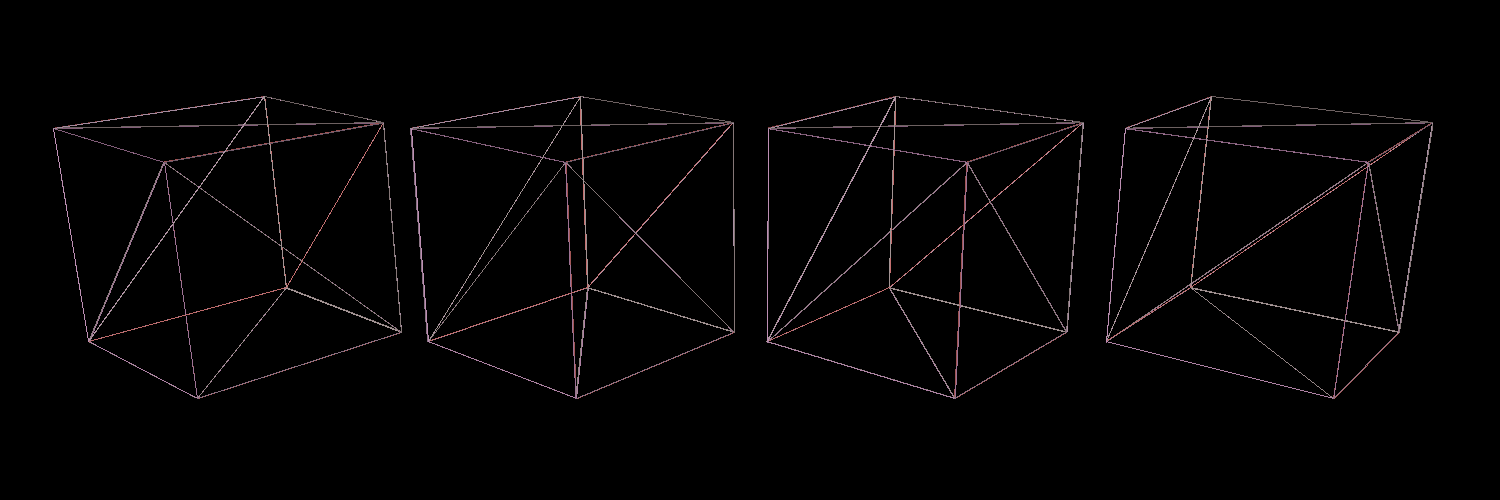
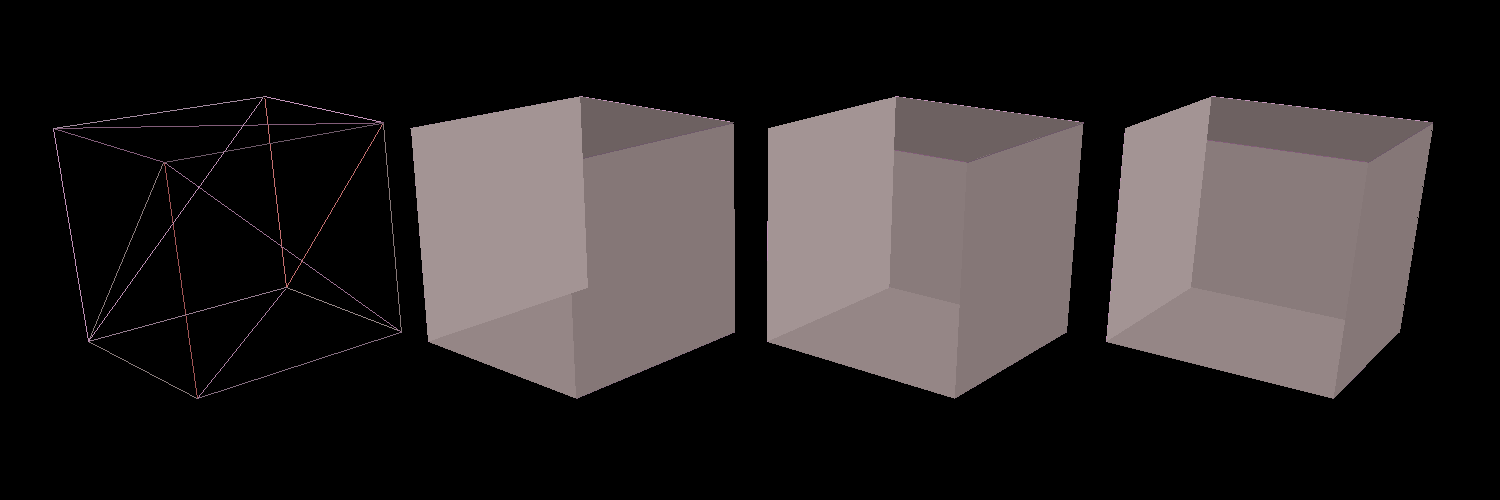
finished part 3, next debug for testing

diff --git a/src/rasterizer/pipeline.cpp b/src/rasterizer/pipeline.cpp
@@ -463,8 +463,6 @@ void Pipeline< p, P, flags >::rasterize_line(
 		}
 	}
 
-
-
 	// { //As a placeholder, draw a point in the middle of the line:
 	// 	//(remove this code once you have a real implementation)
 	// 	Fragment mid;
@@ -497,7 +495,8 @@ void Pipeline< p, P, flags >::rasterize_line(
  *    derivatives[i].y = d/d(fb_position.y) attributes[i]
  *  You may compute these derivatives analytically or numerically.
  *
- *  See section 8.12.1 "Derivative Functions" of the GLSL 4.20 specification for some inspiration. (*HOWEVER*, the spec is solving a harder problem, and also nothing in the spec is binding on your implementation)
+ *  See section 8.12.1 "Derivative Functions" of the GLSL 4.20 specification for some inspiration. 
+ *  (*HOWEVER*, the spec is solving a harder problem, and also nothing in the spec is binding on your implementation)
  *
  *  One approach is to rasterize blocks of four fragments and use forward and backward differences to compute derivatives.
  *  To assist you in this approach, keep in mind that the framebuffer size is *guaranteed* to be even. (see framebuffer.h)
@@ -533,6 +532,39 @@ void Pipeline< p, P, flags >::rasterize_triangle(
 		Pipeline< PrimitiveType::Lines, P, flags >::rasterize_line(va, vb, emit_fragment);
 		Pipeline< PrimitiveType::Lines, P, flags >::rasterize_line(vb, vc, emit_fragment);
 		Pipeline< PrimitiveType::Lines, P, flags >::rasterize_line(vc, va, emit_fragment);
+
+		// Get the bounding box of the triangle
+		float min_x = std::min(va.fb_position.x, std::min(vb.fb_position.x, vc.fb_position.x));
+		float max_x = std::max(va.fb_position.x, std::max(vb.fb_position.x, vc.fb_position.x));
+		float min_y = std::min(va.fb_position.y, std::min(vb.fb_position.y, vc.fb_position.y));
+		float max_y = std::max(va.fb_position.y, std::max(vb.fb_position.y, vc.fb_position.y));
+
+
+		float tri_surface = triangleArea(va.fb_position, vb.fb_position, vc.fb_position);
+		std::cout << "Triangle area: " << tri_surface << std::endl;
+		std::cout << "boundbox area: " << (max_x - min_x) * (max_y - min_y) << std::endl;
+
+		int count_tri = 0;
+		int count_box = 0;
+		
+		for (int row = int(min_x); row <= int(max_x); row++){
+			for (int col = int(min_y); col <= int(max_y); col++){
+				Vec3 pixelPos = Vec3(row + 0.f, col + 0.f, 0.0f);
+				if( inTriangle(pixelPos, va.fb_position, vb.fb_position, vc.fb_position))
+				{
+					Fragment frag;
+					frag.fb_position = pixelPos;
+					frag.attributes = va.attributes;
+					frag.derivatives.fill(Vec2(0.0f, 0.0f));
+					emit_fragment(frag);
+					count_tri++;
+				}
+				count_box++;
+			}
+		}
+		std::cout << "count_tri: " << count_tri << std::endl;
+		std::cout << "count_box: " << count_box << std::endl;
+
 	} else if constexpr ((flags & PipelineMask_Interp) == Pipeline_Interp_Screen) {
 		//A1T5: screen-space smooth triangles
 		//TODO: rasterize triangle (see block comment above this function).

diff --git a/src/util/helper.cpp b/src/util/helper.cpp
@@ -225,3 +225,17 @@ Vec2 StartingDiamondPos_Vertical(Vec3 start, Vec3 end){ // start is lower
 
     }
 }
+
+float triangleArea(Vec3 A, Vec3 B, Vec3 C) {
+    return abs((A.x*(B.y - C.y) + B.x*(C.y - A.y) + C.x*(A.y - B.y)) / 2.0f);
+}
+
+
+bool inTriangle(Vec3 test, Vec3 A, Vec3 B, Vec3 C){
+	float error = 2.f;
+	float totalArea = triangleArea(A, B, C);
+	float area1 = triangleArea(test, B, C);
+	float area2 = triangleArea(A, test, C);
+	float area3 = triangleArea(A, B, test);
+	return abs(totalArea -( area1 + area2 + area3)) <= error;
+}

diff --git a/src/util/helper.h b/src/util/helper.h
@@ -18,3 +18,6 @@ bool exitDiamond_vertical( int x, int y, Vec3 lower, Vec3 upper);
 bool exitDimaond_nonVertical( int x, int y, Vec3 va, Vec3 vb, char flag);
 Vec2 StartingDiamondPos_NoVertical_No45Deg(Vec3 start, Vec3 end);
 Vec2 StartingDiamondPos_Vertical(Vec3 start, Vec3 end);
+
+float triangleArea(Vec3 A, Vec3 B, Vec3 C);
+bool inTriangle(Vec3 test, Vec3 A, Vec3 B, Vec3 C);
